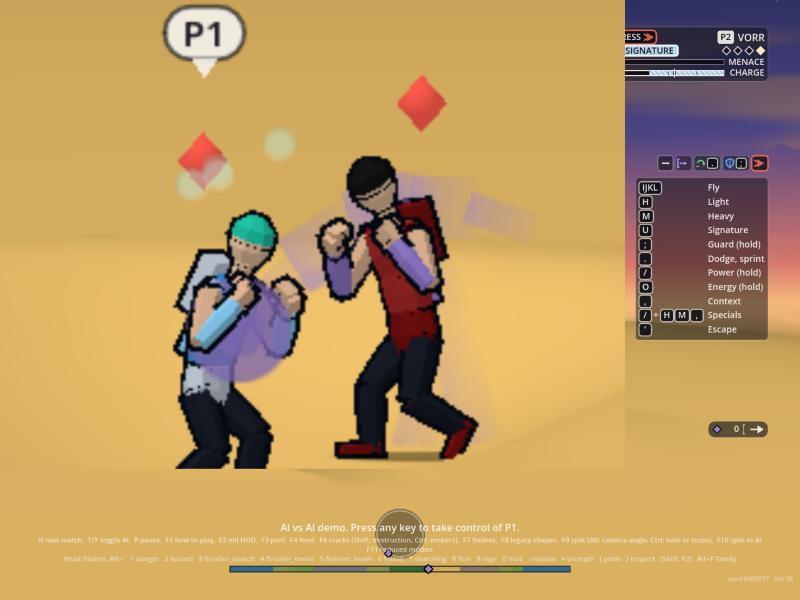
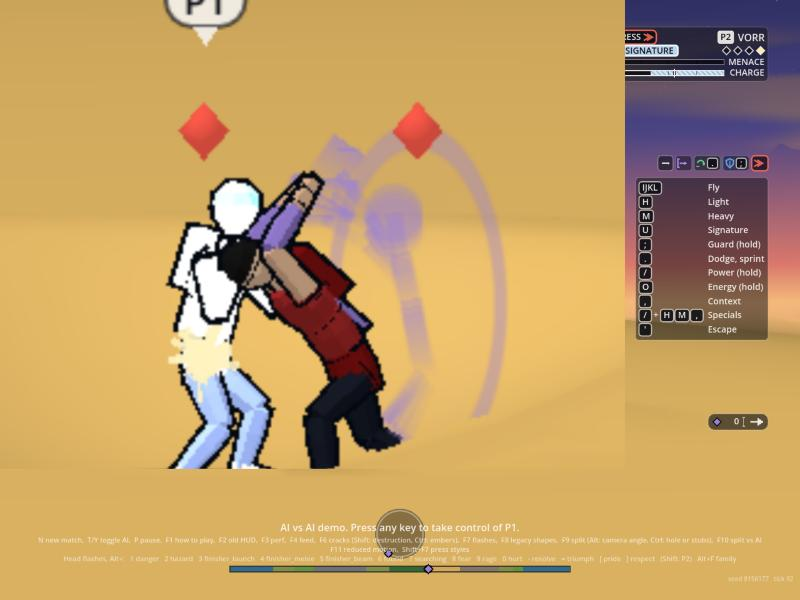
VFX: press looks read Animation's real poses and limb path; off by default

diff --git a/docs/vfx/press-styles.md b/docs/vfx/press-styles.md
@@ -1,6 +1,6 @@
 # The melee press styles on screen (2026-10-04)
 
-Orb's approved reference is `docs/ep/prototypes/melee-trade-v2.html`; his words are in `docs/ep/vision.md` (the last two sections): timed blows land instant with an after-image, mashed blows are fast with a fluid blur, held blows are the most fluid with warping and smears; a blocker is never knocked back. This is a **first build**, behind a flag, driven by what exists today. Code: `render/vfx/press.gd` (state and triggers) and `_press()` with its helpers `_figure` and `_line` in `render/vfx/shots_view.gd` (the shots view's one draw); one new shader shape (5, a diamond) in `render/vfx/shaders/transform.gdshader`. Flag `hub.press_enabled` (`VfxLook.PRESS_DEFAULT`, on while we look at it; set it false to ship it off). Presentation only: it reads events and fighters, draws no random number, writes nothing in the sim. Numbers are in `VfxPress.DEFAULTS` (code, as the beam plays; an optional `data/vfx/press.json` is read if it exists, none is created so no schema is needed yet).
+Orb's approved reference is `docs/ep/prototypes/melee-trade-v2.html`; his words are in `docs/ep/vision.md` (the last two sections): timed blows land instant with an after-image, mashed blows are fast with a fluid blur, held blows are the most fluid with warping and smears; a blocker is never knocked back. This is a **first build**, behind a flag, driven by what exists today. Code: `render/vfx/press.gd` (state and triggers) and `_press()` with its helpers `_figure` and `_line` in `render/vfx/shots_view.gd` (the shots view's one draw); one new shader shape (5, a diamond) in `render/vfx/shaders/transform.gdshader`. Flag `hub.press_enabled` (`VfxLook.PRESS_DEFAULT`, **off**, matching Animation's `RenderAnim.press_styles`; `main.gd` sets one from the other and Shift+F7 flips both). Presentation only: it reads events and fighters, draws no random number, writes nothing in the sim. Numbers are in `VfxPress.DEFAULTS` (code, as the beam plays; an optional `data/vfx/press.json` is read if it exists, none is created so no schema is needed yet).
 
 ## The effect per style
 
@@ -17,24 +17,31 @@ Contact is on the victim's front, at the height of the region hit (head, core or
 
 Quads only, in the shots view's one draw (cap 380; the busiest test tick before this work was 41). One blow: 1 to 27 quads. The busiest test tick, both fighters landing a heavy and a timed blow with both wind-ups showing and a fly: 84 of 380. Debris pool: none. Not measured: the web build under load and an old laptop (the stills were taken in the web build). `effects_check.gd` `_press()` asserts each count above.
 
-## What drives it today (what exists)
+## Animation's hand-off is in (2026-10-04, docs/animation/press-styles.md section 6)
+
+With `RenderAnim.press_styles` on, `press.gd` reads `AnimFighter` (read only, `VfxPress.anim_of`) instead of estimating:
+
+- **Style:** `press.style` of the blow that is playing (after the beat's own `style`, before the press-log read), so the picture and the body agree. A heavy and a guard are still read from the damage kind.
+- **Previous pose:** `press_pose(k)`, taken at the blow: the oldest pose within 0.1 s (tech) or 0.4 s (heavy) and the newest, each put through the rig's forward kinematics (`AnimPose.fk`) into 16 joints. The echoes and ghosts are those two poses blended (a quarter, a half, three quarters), drawn as a real body (head ring, spine, both arms, both legs), anchored where he stood back then (the position history). Count: `press.ghosts` (3, 2, 3).
+- **Limb path:** `press_path` (the striking tip, model space, x turned by the sign of `vface`): the speed blur's discs and streaks run along it, the tech speed line starts at its start, the heavy crescent is its arc (three or more points), and the contact is where the tip ends.
+- **Wind-up:** `press.phase == "load"` with `ticks_to_contact` drives the heavy's shrinking ring (the cue's timer remains as the fallback).
+- Without it (flag off, no blow playing) the estimates below still draw, so nothing disappears.
+
+Quads with the real data: a tech blow draws up to 3 whole bodies of 12 quads (36), a line and a diamond: about 38; a heavy's release draws 3 ghost bodies (36) a crescent along the path (up to 11) and two rings: about 50. Both fighters at once stay under 110 of 380.
+
+## What drives it (and what is still estimated)
 
 - **The blow:** the sim's `damage` event (attacker, victim, region, kind light, heavy or guard). A beam's, impact's or landing's damage is ignored.
 - **The style of a light blow:** the beat's own `style` field when the director sends one (accepted now: speed, tech, heavy, or the press log's words mash, timed or rhythm, held or hold); else the attacker's press log, **read only** (`DirAlchemy.read`, never its resizing: it is skipped if the log is not sized yet): rhythm is tech, hold is heavy, mash, taps and none are speed. A `heavy` blow is heavy; a `guard` is a block.
 - **The wind-up:** the cue `tell_heavy`.
 - **The ender:** the sim's `knockback` (it is sent when an exchange ends in a knockback; a blocker never gets one).
-- **The old pose (estimate):** the fighter's position some ticks ago (a 24-tick history kept here), at least 24 units back for the echoes.
-- **The limb path (estimate):** the fist runs from a guard in front of the chest to the contact point.
+- **The old pose and the limb path:** Animation's, when its flag is on (above); otherwise estimates: the fighter's position some ticks ago, at least 24 units back, and a straight guard-to-contact fist path.
 
-## What I need
+## What I still need
 
-**From Animation** (docs/animation/press-styles.md, not yet written when this was built; `data/anim/press_styles.json` is data only so far and `RenderAnim.press_styles` is off):
-1. The previous pose: the strike's start pose's joint positions in world units (or a `fighter_pose_at(i, ticks_ago)`), so the tech echoes can sit on the body's real earlier poses and the heavy's ghosts on the real wind-up, not on an estimate.
-2. The limb path: the striking hand's world position per tick (`hand_r` or `hand_l`, with the hand named), so the speed blur, the speed line and the crescent follow the real fist, and the contact point is where the fist ends.
-3. `press.ghosts` (3 tech, 2 speed, 3 heavy in the data) as the echo count I am asked for; today I draw 3, 4 and 3 and will read it when it is exposed.
-4. The head and chest world positions (`fighter_head(i, a)` is already asked for by the glare), so the figures' head rings sit on the real heads.
+**From the director (Encounter):** the style on each strike beat as a `style` field on the `damage` event (or the beat's cue), so Animation's and my read never disagree (the words mash, timed, held work too); a `hand` (0 or 1) for a mash's alternating fists and `ender: true` on a heavy that ends a string (today the flight is read from `knockback`). Animation's own list of beat fields is its docs/animation/press-styles.md section 4.
 
-**From the director (Encounter):** the style on each strike beat, as a `style` field on the `damage` event (or the beat's cue): `speed`, `tech` or `heavy` (the words mash, timed, held work too). Also a `hand` (0 or 1) so a mash alternates fists as the animation does, and an `ender: true` on the heavy that ends a string (today the flight is read from `knockback`, which arrives with or after the blow).
+**From Animation (optional):** squash and stretch on the flying target of a heavy ender (the prototype's stretch cannot be a draw layer); a block's phase on the defender if they want the shield drawn from the body.
 
 ## Reduced motion
 
@@ -42,20 +49,20 @@ The same looks in their short forms, with nothing that strobes: speed has no dis
 
 ## Pictures
 
-Web build, a scratch staging hook that sends the events as the director will (`damage` with a `style`, `tell_heavy`, `knockback`), zoomed on the pair. Both fighters land each blow in turn (the Protagonist's slot, the rival's slot).
+Web build with Animation's press styles on (re-shot 2026-10-04 after the hand-off): a scratch staging hook makes the director's own request (`DirExchange.requestAttack`) so the strikes are the real animation, and the page is stopped two ticks after the blow. The tech case reads every light blow as timed through Animation's own data table. Zoomed on the pair; both fighters land each blow in turn (the Protagonist's slot, the rival's slot). The yellow arcs and red diamonds are the game's own UI.
 
 | Speed (mash) | Tech (timed) | Heavy (held) |
 | :---: | :---: | :---: |
 | ![](img/ps-speed-protagonist.jpg) | ![](img/ps-tech-protagonist.jpg) | ![](img/ps-heavy-protagonist.jpg) |
 | ![](img/ps-speed-rival.jpg) | ![](img/ps-tech-rival.jpg) | ![](img/ps-heavy-rival.jpg) |
 
-Block (the rival blocks the Protagonist's blow; the Protagonist blocks the rival's) and a heavy ender's target flying with ghosts:
+Block and a heavy ender's target flying with ghosts (these two are from the earlier staging with sent events, a block and a knockback have no body data to read; the web stills were not re-shot):
 
 ![](img/ps-block-protagonist-hits.jpg) ![](img/ps-block-protagonist-blocks.jpg) ![](img/ps-fly-rival-flies.jpg)
 
 ## Known weak spots
 
-- The staged fighters do not lunge, so the tech echoes sit behind a standing body; with Animation's real previous pose they will follow the strike.
-- The fist path is a straight guard-to-contact estimate and the contact is on the victim's front at a region height, not where the real fist ends.
+- The new stills show real poses. The tech wire echoes and the heavy ghosts are still faint at the web build's gameplay zoom, and the heavy's crescent can be read as the body's own smear; Orb's eye decides how bold they should be (the alphas are `VfxPress` and `_press`).
+- A block and a fly are not tied to a body phase yet.
 - The fly's ghosts are the weakest read: flat filled figures at the target's earlier positions; the prototype's stretch (the body itself elongating) is not possible from a draw layer and wants Animation's squash and stretch on the target.
 - Rendering's own contact sparks and rings still fire on a hit; this adds to them. Whether it should replace them is the EP's and Orb's call.
